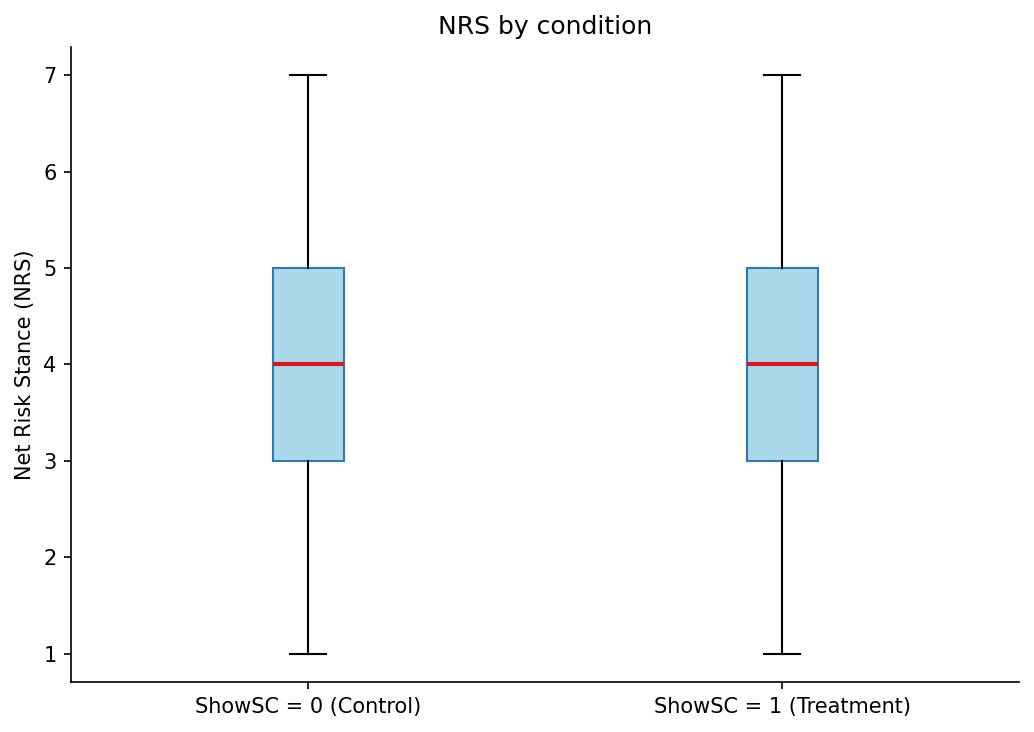
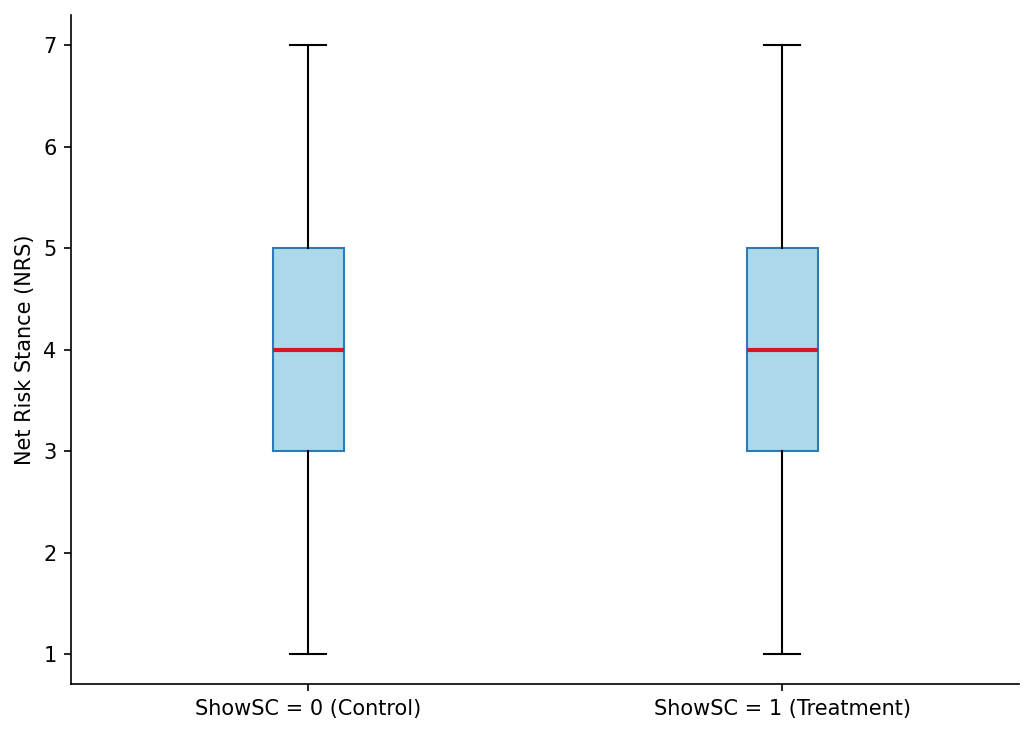
Round-2 #198: remove duplicate baked-in figure titles (Fig 5.2/5.3/5.4)
Single-panel charts had a matplotlib title baked into the PNG that duplicated
the markdown figure caption (e.g. Fig 5.4: caption 'Distribution of the
Composite Shock Score' + in-chart title 'Shock Score distribution'). Dropped
the set_title() calls for fig_nrs_distribution, fig_nrs_by_condition, and
fig_sc_distribution so the markdown caption is the sole title. Multi-panel
(a)/(b) labels in Fig 5.1 and 5.7 are kept (they label subplots, not
duplicates). Regenerated the three figures.

diff --git a/8_statistical_analysis.py b/8_statistical_analysis.py
@@ -574,7 +574,6 @@ def _fig_nrs_distribution(nrs: pd.Series) -> None:
     ax.hist(nrs, bins=7, range=(0.5, 7.5), color="#2c7bb6", edgecolor="white")
     ax.set_xlabel("Net Risk Stance (NRS)")
     ax.set_ylabel("Frequency")
-    ax.set_title("Distribution of NRS responses")
     ax.set_xticks(range(1, 8))
     _apa_style(ax)
     fig.tight_layout()
@@ -590,7 +589,6 @@ def _fig_nrs_by_condition(sc0: pd.Series, sc1: pd.Series) -> None:
                     boxprops=dict(facecolor="#abd9e9", color="#2c7bb6"),
                     medianprops=dict(color="#d7191c", linewidth=2))
     ax.set_ylabel("Net Risk Stance (NRS)")
-    ax.set_title("NRS by condition")
     _apa_style(ax)
     fig.tight_layout()
     fig.savefig(FIGURES_DIR / "fig_nrs_by_condition.png", dpi=150, bbox_inches="tight")
@@ -622,7 +620,6 @@ def _fig_sc_distribution(scen_df: pd.DataFrame) -> None:
 
     ax.set_xlabel("Shock Score")
     ax.set_ylabel("Density")
-    ax.set_title("Shock Score distribution across scenarios")
     ax.legend()
     _apa_style(ax)
     fig.tight_layout()